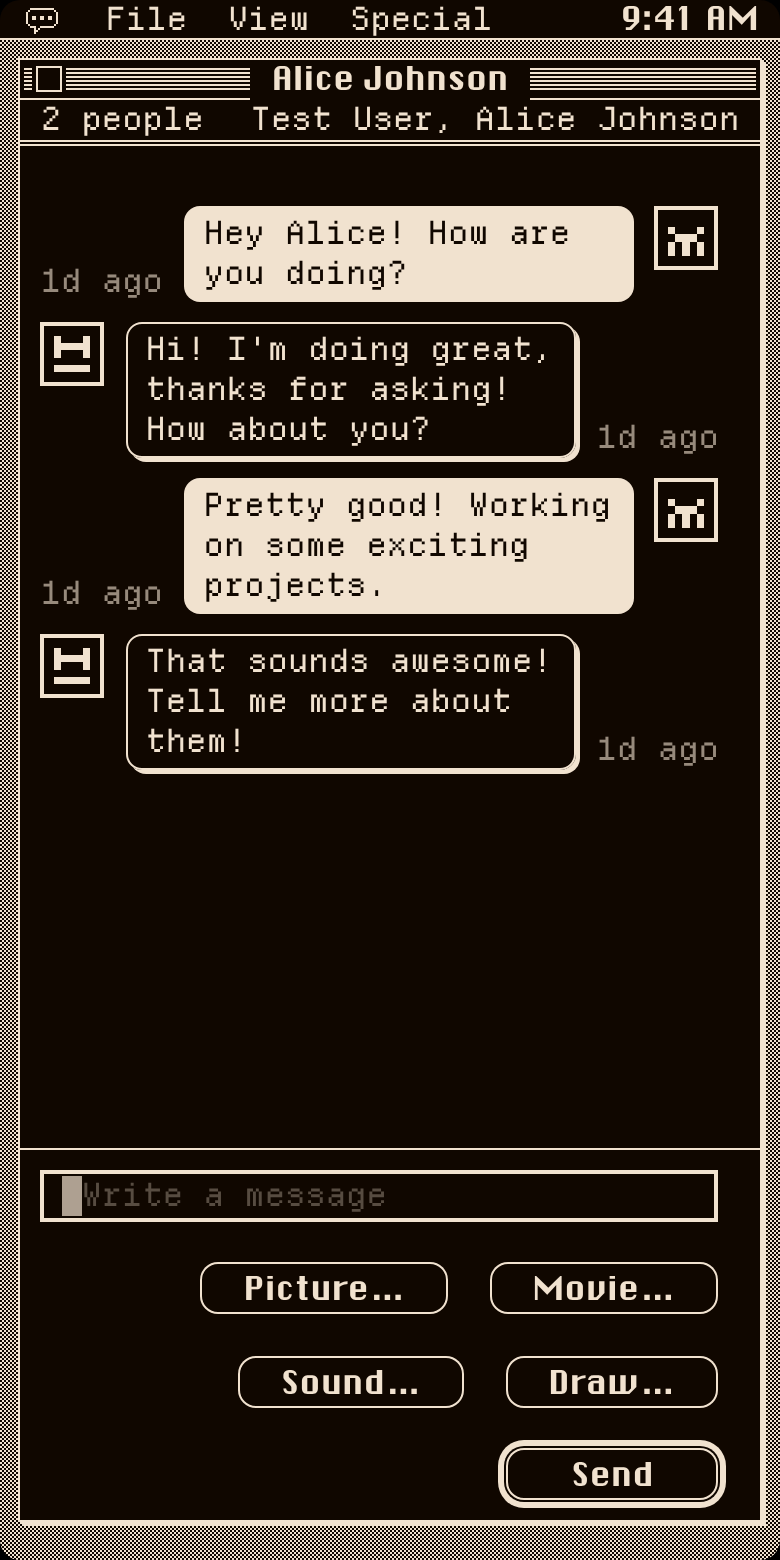
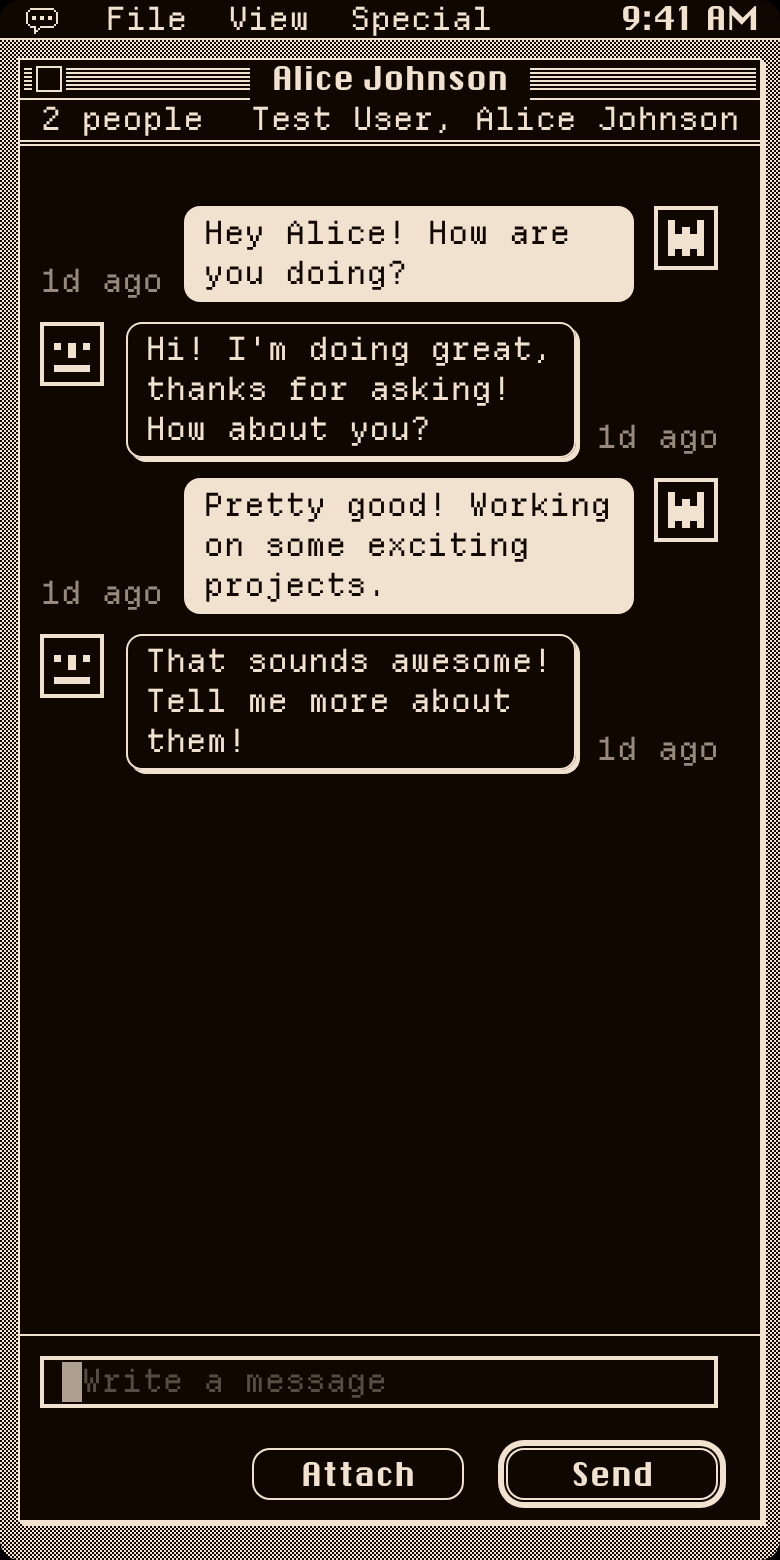
Gather Picture…, Movie…, Sound… and Draw… into one Attach menu
The composer had four attachment buttons beside Send, two rows on a
phone. One Attach button now opens a pull-down menu of them, the menu
bar's own Menu with another button as its trigger, opening above it.

e2e steps pick from it through attach() in support.ts; the picture tests
press the paint window's Attach within it, as the composer has one too.
README pictures remade.

Claude-Session: https://claude.ai/code/session_01EY7RHhk48uttwCiwcG19R1

diff --git a/apps/e2e/tests/drawing.spec.ts b/apps/e2e/tests/drawing.spec.ts
@@ -1,8 +1,9 @@
 import { expect, test, type Locator, type Page } from '@playwright/test';
 import {
   anotherPerson,
-  chatWindow,
+  attach,
   chatsWindow,
+  chatWindow,
   chooseMenu,
   signIn,
 } from './support';
@@ -83,9 +84,7 @@ test('a drawing goes with a message to Bob, live, and comes back drawn on', asyn
   await chatsWindow(page).getByText('Bob Smith', { exact: true }).click();
   await chatsWindow(bob).getByText('Test User', { exact: true }).click();
 
-  await chatWindow(page, 'Bob Smith')
-    .getByRole('button', { name: 'Draw…' })
-    .click();
+  await attach(chatWindow(page, 'Bob Smith'), 'Draw…');
   await expect(paintWindow(page)).toHaveAccessibleName('Drawing for Bob Smith');
   await scribble(page, [0.1, 0.2], [0.9, 0.8]);
   await paintWindow(page).getByRole('button', { name: 'Attach' }).click();
@@ -138,9 +137,7 @@ test('Undo brings back what Clear wiped, and Cancel asks before discarding', asy
   await page.goto('/login');
   await signIn(page, 'charlie@example.com');
   await chatsWindow(page).getByText('Test User', { exact: true }).click();
-  await chatWindow(page, 'Test User')
-    .getByRole('button', { name: 'Draw…' })
-    .click();
+  await attach(chatWindow(page, 'Test User'), 'Draw…');
   // A blank canvas can't be attached: Attach is only a greyed-out label.
   const send = paintWindow(page).getByRole('button', { name: 'Attach' });
   await expect(send).toHaveCount(0);
@@ -170,9 +167,7 @@ test('a second finger on the canvas does not draw', async ({ browser }) => {
   await page.goto('/login');
   await signIn(page, 'diana@example.com');
   await chatsWindow(page).getByText('Project Team', { exact: true }).click();
-  await chatWindow(page, 'Project Team')
-    .getByRole('button', { name: 'Draw…' })
-    .click();
+  await attach(chatWindow(page, 'Project Team'), 'Draw…');
   const canvas = paintWindow(page).locator('canvas');
   const box = await canvas.boundingBox();
   if (!box) throw new Error('The paint window has no canvas');

diff --git a/apps/e2e/tests/sounds.spec.ts b/apps/e2e/tests/sounds.spec.ts
@@ -1,6 +1,12 @@
 import { expect, test } from '@playwright/test';
 import { fileURLToPath } from 'node:url';
-import { anotherPerson, chatWindow, chatsWindow, signIn } from './support';
+import {
+  anotherPerson,
+  attach,
+  chatsWindow,
+  chatWindow,
+  signIn,
+} from './support';
 
 // Two seconds of a 440 Hz beep.
 const BEEP = fileURLToPath(new URL('../fixtures/beep.wav', import.meta.url));
@@ -18,7 +24,7 @@ test('a file becomes a sound: part of it chosen, heard squashed, sent and played
   await chatsWindow(test).getByText('Charlie Brown', { exact: true }).click();
   const chat = chatWindow(page, 'Test User');
 
-  await chat.getByRole('button', { name: 'Sound…' }).click();
+  await attach(chat, 'Sound…');
   const dialog = page.getByRole('dialog', { name: 'Sound for Test User' });
   const chooser = page.waitForEvent('filechooser');
   await dialog.getByRole('button', { name: 'Choose File…' }).click();
@@ -67,7 +73,7 @@ test('a sound is recorded from the microphone', async ({ browser }) => {
   await chatsWindow(page).getByText('Test User', { exact: true }).click();
   const chat = chatWindow(page, 'Test User');
 
-  await chat.getByRole('button', { name: 'Sound…' }).click();
+  await attach(chat, 'Sound…');
   const dialog = page.getByRole('dialog', { name: 'Sound for Test User' });
   await dialog.getByRole('button', { name: 'Record' }).click();
   await expect(dialog.getByText(/Recording… 0:0[2-9]/)).toBeVisible({
@@ -89,7 +95,7 @@ test('a file that is not a sound is turned away', async ({ page }) => {
   await chatsWindow(page).getByText('Test User', { exact: true }).click();
   const chat = chatWindow(page, 'Test User');
 
-  await chat.getByRole('button', { name: 'Sound…' }).click();
+  await attach(chat, 'Sound…');
   const dialog = page.getByRole('dialog', { name: 'Sound for Test User' });
   const chooser = page.waitForEvent('filechooser');
   await dialog.getByRole('button', { name: 'Choose File…' }).click();

diff --git a/apps/e2e/tests/pictures.spec.ts b/apps/e2e/tests/pictures.spec.ts
@@ -1,5 +1,11 @@
 import { expect, test, type Locator, type Page } from '@playwright/test';
-import { anotherPerson, chatWindow, chatsWindow, signIn } from './support';
+import {
+  anotherPerson,
+  attach,
+  chatsWindow,
+  chatWindow,
+  signIn,
+} from './support';
 
 // A 400×200 photo, `left` on the left and white on the right, drawn in the
 // browser so the test needs no files.
@@ -67,7 +73,7 @@ test('a photo goes with a message, dithered on the way, at its own shape', async
   const chat = chatWindow(page, 'Project Team');
 
   const chooser = page.waitForEvent('filechooser');
-  await chat.getByRole('button', { name: 'Picture…' }).click();
+  await attach(chat, 'Picture…');
   await (
     await chooser
   ).setFiles({
@@ -83,7 +89,10 @@ test('a photo goes with a message, dithered on the way, at its own shape', async
     .getByRole('img', { name: 'Canvas' });
   await expect(canvas).toHaveAttribute('width', '320');
   await expect(canvas).toHaveAttribute('height', '160');
-  await page.getByRole('button', { name: 'Attach' }).click();
+  await page
+    .getByRole('dialog', { name: /^Drawing for / })
+    .getByRole('button', { name: 'Attach' })
+    .click();
 
   await chat.getByRole('textbox', { name: 'Message' }).fill('the coast');
   await chat.getByRole('button', { name: 'Send', exact: true }).click();
@@ -130,9 +139,12 @@ test('pasting or dropping a photo attaches it; a broken one is refused', async (
   );
 
   // Attaching a drawing instead clears the complaint.
-  await chat.getByRole('button', { name: 'Draw…' }).click();
+  await attach(chat, 'Draw…');
   await page.getByRole('img', { name: 'Canvas' }).click();
-  await page.getByRole('button', { name: 'Attach' }).click();
+  await page
+    .getByRole('dialog', { name: /^Drawing for / })
+    .getByRole('button', { name: 'Attach' })
+    .click();
   await expect(preview).toBeVisible();
   await expect(chat.getByRole('alert')).toHaveCount(0);
 });

diff --git a/apps/frontend/src/app/components/chat/MessageInput.tsx b/apps/frontend/src/app/components/chat/MessageInput.tsx
@@ -11,6 +11,7 @@ import Button from '../../../sacred/components/Button';
 import TextArea from '../../../sacred/components/TextArea';
 import { pixelSize, useBitmapCanvas } from '../../hooks/use-bitmap-canvas';
 import { recordMessage } from '../../hooks/use-chat-feed';
+import { Menu } from '../MenuBar';
 import { useMediaQuery } from '../../hooks/use-media-query';
 import { useMovieTick } from '../../hooks/use-movie';
 import type { Attachment } from './attachment';
@@ -329,26 +330,21 @@ export function MessageInput({
           }}
         />
       ))}
-      <Button
-        theme="SECONDARY"
-        type="button"
-        onClick={() => pictureRef.current?.click()}
-      >
-        Picture…
-      </Button>
-      <Button
-        theme="SECONDARY"
-        type="button"
-        onClick={() => movieRef.current?.click()}
-      >
-        Movie…
-      </Button>
-      <Button theme="SECONDARY" type="button" onClick={() => onSound()}>
-        Sound…
-      </Button>
-      <Button theme="SECONDARY" type="button" onClick={() => onDraw()}>
-        Draw…
-      </Button>
+      {/* Everything that goes with a message, in one pull-down menu. */}
+      <Menu
+        title="Attach"
+        button={
+          <Button theme="SECONDARY" type="button" aria-haspopup="menu">
+            Attach
+          </Button>
+        }
+        items={[
+          { label: 'Picture…', onClick: () => pictureRef.current?.click() },
+          { label: 'Movie…', onClick: () => movieRef.current?.click() },
+          { label: 'Sound…', onClick: onSound },
+          { label: 'Draw…', onClick: onDraw },
+        ]}
+      />
       {preparing || loading ? (
         <Button isDisabled>Sending</Button>
       ) : (

diff --git a/apps/e2e/screenshots/readme.spec.ts b/apps/e2e/screenshots/readme.spec.ts
@@ -1,7 +1,13 @@
 import { expect, test, type Browser, type Page } from '@playwright/test';
 import { writeFileSync } from 'node:fs';
 import { fileURLToPath } from 'node:url';
-import { chatWindow, chatsWindow, menuBar, signIn } from '../tests/support';
+import {
+  attach,
+  chatsWindow,
+  chatWindow,
+  menuBar,
+  signIn,
+} from '../tests/support';
 import { animatedPng } from './animated-png';
 
 /**
@@ -121,9 +127,7 @@ test('on a phone', async ({ browser }) => {
 test('a drawing, in the paint window', async ({ browser }) => {
   const page = await screen(browser, { email: 'test@example.com' });
   await openChat(page, 'Bob Smith', 'Great work!');
-  await chatWindow(page, 'Bob Smith')
-    .getByRole('button', { name: 'Draw…' })
-    .click();
+  await attach(chatWindow(page, 'Bob Smith'), 'Draw…');
   const paint = page.getByRole('dialog', { name: 'Drawing for Bob Smith' });
   const canvas = paint.locator('canvas');
   const box = await canvas.boundingBox();
@@ -319,7 +323,7 @@ test('a photo and a link, in a chat', async ({ browser }) => {
   };
 
   const chooser = page.waitForEvent('filechooser');
-  await chat.getByRole('button', { name: 'Picture…' }).click();
+  await attach(chat, 'Picture…');
   await (await chooser).setFiles(MACINTOSH);
   await expect(
     chat.getByRole('button', { name: 'Edit picture' })

diff --git a/apps/e2e/tests/movies.spec.ts b/apps/e2e/tests/movies.spec.ts
@@ -1,6 +1,12 @@
 import { expect, test, type Locator, type Page } from '@playwright/test';
 import { fileURLToPath } from 'node:url';
-import { anotherPerson, chatWindow, chatsWindow, signIn } from './support';
+import {
+  anotherPerson,
+  attach,
+  chatsWindow,
+  chatWindow,
+  signIn,
+} from './support';
 
 // Two seconds of a black square sliding right across white, 320×180.
 const VIDEO = fileURLToPath(
@@ -64,7 +70,7 @@ test('a video becomes a movie: part of it chosen, drawn on, sent, and looping li
   const chat = chatWindow(page, 'Project Team');
 
   const chooser = page.waitForEvent('filechooser');
-  await chat.getByRole('button', { name: 'Movie…' }).click();
+  await attach(chat, 'Movie…');
   await (await chooser).setFiles(VIDEO);
 
   // The whole two seconds to start with; the end handle takes half off.
@@ -124,7 +130,7 @@ test('a video longer than ten minutes is turned away', async ({ page }) => {
   });
 
   const chooser = page.waitForEvent('filechooser');
-  await chat.getByRole('button', { name: 'Movie…' }).click();
+  await attach(chat, 'Movie…');
   await (await chooser).setFiles(VIDEO);
 
   const trim = page.getByRole('dialog', { name: 'Movie for Project Team' });

diff --git a/apps/e2e/tests/support.ts b/apps/e2e/tests/support.ts
@@ -1,4 +1,9 @@
-import { expect, type Browser, type Page } from '@playwright/test';
+import {
+  expect,
+  type Browser,
+  type Locator,
+  type Page,
+} from '@playwright/test';
 
 /** Every seeded account's password (apps/api/prisma/seed.ts). */
 export const SEEDED_PASSWORD = 'password123';
@@ -22,6 +27,12 @@ export async function signIn(page: Page, email: string) {
 export async function chooseMenu(page: Page, menu: string, item: string) {
   await menuBar(page).getByRole('button', { name: menu, exact: true }).click();
   await page.getByRole('menuitem', { name: item }).click();
+}
+
+/** Picks `item` from a chat's Attach menu: "Picture…", "Movie…", "Sound…" or "Draw…". */
+export async function attach(chat: Locator, item: string) {
+  await chat.getByRole('button', { name: 'Attach', exact: true }).click();
+  await chat.page().getByRole('menuitem', { name: item }).click();
 }
 
 /** Someone else, in a browser of their own: no shared cookies. */

diff --git a/apps/frontend/src/app/components/MenuBar.tsx b/apps/frontend/src/app/components/MenuBar.tsx
@@ -17,8 +17,19 @@ export interface MenuItem {
   onClick: () => void;
 }
 
-/** A pull-down menu: a title in the menu bar that opens Sacred's DropdownMenu. */
-export function Menu({ title, items }: { title: string; items: MenuItem[] }) {
+/**
+ * A pull-down menu: a title in the menu bar, or another button such as the
+ * composer's Attach, that opens Sacred's DropdownMenu.
+ */
+export function Menu({
+  title,
+  items,
+  button = <ActionButton>{title}</ActionButton>,
+}: {
+  title: string;
+  items: MenuItem[];
+  button?: React.ReactElement<React.HTMLAttributes<HTMLElement>>;
+}) {
   return (
     <DropdownMenuTrigger
       items={items.map(({ label, shortcut, checked, onClick }) => ({
@@ -32,7 +43,7 @@ export function Menu({ title, items }: { title: string; items: MenuItem[] }) {
         onClick,
       }))}
     >
-      <ActionButton>{title}</ActionButton>
+      {button}
     </DropdownMenuTrigger>
   );
 }

diff --git a/apps/e2e/tests/asleep.spec.ts b/apps/e2e/tests/asleep.spec.ts
@@ -1,8 +1,9 @@
 import { devices, expect, test, type Page } from '@playwright/test';
 import {
   anotherPerson,
-  chatWindow,
+  attach,
   chatsWindow,
+  chatWindow,
   menuBar,
   signIn,
 } from './support';
@@ -58,7 +59,7 @@ test('what you send while the connection is down still shows in the chat list', 
 
   const chat = chatWindow(page, '#general');
   const chooser = page.waitForEvent('filechooser');
-  await chat.getByRole('button', { name: 'Picture…' }).click();
+  await attach(chat, 'Picture…');
   await (
     await chooser
   ).setFiles({

diff --git a/README.md b/README.md
@@ -26,10 +26,10 @@
 - **Direct chats, groups and `#channels`.** Start a chat with anyone from **File → New Chat…** or <kbd>Ctrl</kbd>&nbsp;<kbd>K</kbd>. Make a channel with **File → New Channel…** and bring people in with **Add People…**, or join one from **File → Join Channel…** or by typing `/join #name` in the message box.
 - **Live.** Messages arrive the moment they're sent, and the chat list reorders itself.
 - **Pixel emoji.** Every emoji is redrawn as black-and-white pixel art in the theme's ink, and a message of just emoji shows them big.
-- **MacPaint drawings.** **Draw…** opens a paint window with a pencil, brush, paint bucket, eraser and eight patterns, and attaches the picture to your message. **Draw on It** opens any picture in the chat to add to it.
-- **Photos, the 1984 way.** **Picture…**, pasting or dropping a photo dithers it to black and white on your device, up to 320 pixels a side, to send with or without text. Only the dithered picture leaves your device, in a few kilobytes.
-- **Movies, like it's 1984.** **Movie…**, pasting or dropping a video lets you pick up to six seconds of it on a timeline, and makes it a black-and-white movie on your device: 8 frames a second, up to 320 pixels a side, looping in the chat like a GIF. Draw on it like a picture. A movie is coded pixel by pixel against the frame before, so six seconds take some 40 KB.
-- **Sounds, squashed on purpose.** **Sound…** records up to a minute, or takes a song or any sound file (or drop one on the chat) and lets you pick up to a minute of it on its timeline. It's squashed on your device the way photos are dithered: 8,000 samples a second, each sliver of sound kept as rough steps of each band's loudness, with the rest played back as noise. It comes out crunchy, like an old Mac, and a minute of speech or music takes about 30 KB.
+- **MacPaint drawings.** **Attach → Draw…** opens a paint window with a pencil, brush, paint bucket, eraser and eight patterns, and attaches the picture to your message. **Draw on It** opens any picture in the chat to add to it.
+- **Photos, the 1984 way.** **Attach → Picture…**, pasting or dropping a photo dithers it to black and white on your device, up to 320 pixels a side, to send with or without text. Only the dithered picture leaves your device, in a few kilobytes.
+- **Movies, like it's 1984.** **Attach → Movie…**, pasting or dropping a video lets you pick up to six seconds of it on a timeline, and makes it a black-and-white movie on your device: 8 frames a second, up to 320 pixels a side, looping in the chat like a GIF. Draw on it like a picture. A movie is coded pixel by pixel against the frame before, so six seconds take some 40 KB.
+- **Sounds, squashed on purpose.** **Attach → Sound…** records up to a minute, or takes a song or any sound file (or drop one on the chat) and lets you pick up to a minute of it on its timeline. It's squashed on your device the way photos are dithered: 8,000 samples a second, each sliver of sound kept as rough steps of each band's loudness, with the rest played back as noise. It comes out crunchy, like an old Mac, and a minute of speech or music takes about 30 KB.
 - **Profiles.** File → **Profile…** changes your name and your face: draw one, or dither a photo's middle to 64×64. Remove it and you're the pattern you started as. Everyone who shares a chat with you sees the change at once.
 - **Link previews.** Links are clickable, and the first in a message gets a card with the page's site, title, description and its picture dithered to 64×64. Our server reads the page, fenced in so it can only reach the public internet, so linked sites never see who's reading.
 - **Notifications, even with Msgr closed**, on computers and phones, for messages in chats you aren't looking at. Msgr offers them once on each device, and keeps them in the **Special** menu. On an iPhone, add Msgr to the Home Screen first (Share → Add to Home Screen); elsewhere it can be installed as an app from the **Special** menu. A beep sounds while it's open.

diff --git a/docs/manual-testing.md b/docs/manual-testing.md
@@ -108,7 +108,10 @@ keyboard, notifications, layout) is checked here.
       titles are black-and-white pixel art in the text's colour, white in your
       own bubbles and in the theme's ink in Dark and the tints. A message of one
       to three emoji shows them big. Copying a message gives the real emoji.
-- [ ] **Drawing:** Draw… opens "Drawing for _chat_". Try each tool: the pencil
+- [ ] **Attach:** the button beside Send opens a menu of Picture…, Movie…,
+      Sound… and Draw…, above it, by mouse, touch or keyboard (arrows, Return,
+      Esc).
+- [ ] **Drawing:** Attach → Draw… opens "Drawing for _chat_". Try each tool: the pencil
       (starting on black, it draws white), the brush and the paint bucket in a
       few patterns, and the eraser. Undo (⌘Z or Ctrl+Z) steps back through
       strokes, fills and Clear. Attach is greyed out while the canvas is blank.
@@ -116,11 +119,11 @@ keyboard, notifications, layout) is checked here.
       paint on it again, or Remove it. Send it alone and with text: it arrives
       live in the other window, the chat list previews a picture alone as
       "Picture", and a notification says "Sent a picture."
-- [ ] **Photos:** Picture… a big landscape photo, a portrait one and a PNG with
+- [ ] **Photos:** Attach → Picture… a big landscape photo, a portrait one and a PNG with
       transparency; paste one; drop one on the conversation. Each arrives
       dithered at its own shape, at most 320 pixels a side. A file that isn't a
       picture the browser can open says so.
-- [ ] **Movies:** Movie… a phone video, landscape, portrait and square, and
+- [ ] **Movies:** Attach → Movie… a phone video, landscape, portrait and square, and
       one longer than ten minutes, which is refused. The timeline shows the
       whole video; drag the window, and its handles (at most 6 s, at least half
       a second); Play loops the part. Make Movie reads and dithers it, then it
@@ -129,7 +132,7 @@ keyboard, notifications, layout) is checked here.
       other window like a GIF with nothing to press, at its own shape, 2× (1×
       on a phone), repaints in a new theme, and the chat list says "Movie".
       On an iPhone, try one from the camera roll in Safari.
-- [ ] **Sounds:** Sound… then Record: the browser asks for the microphone
+- [ ] **Sounds:** Attach → Sound… then Record: the browser asks for the microphone
       once; speak for a few seconds and Stop (it stops by itself at a
       minute). Choose File… a song (MP3, M4A, and a WAV), and drop one on the
       conversation. The timeline shows the whole of it; drag the window and its
